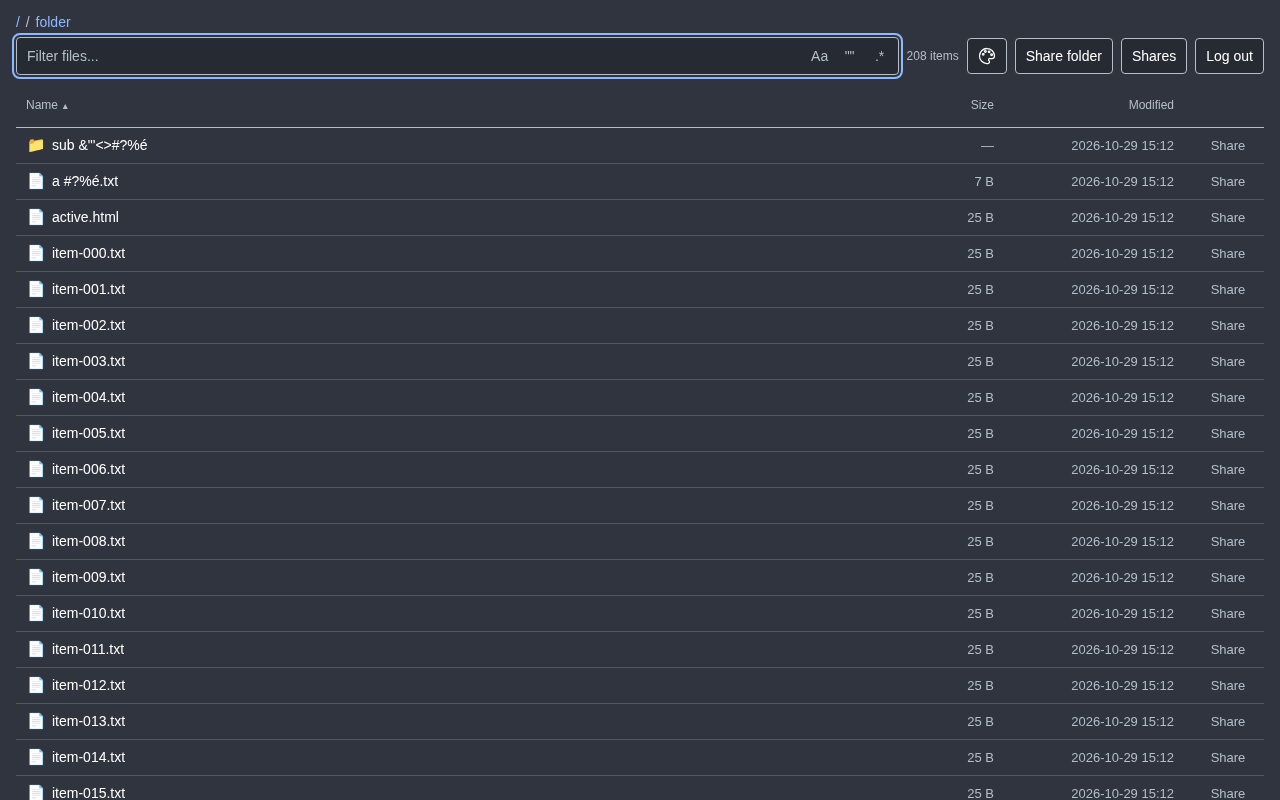
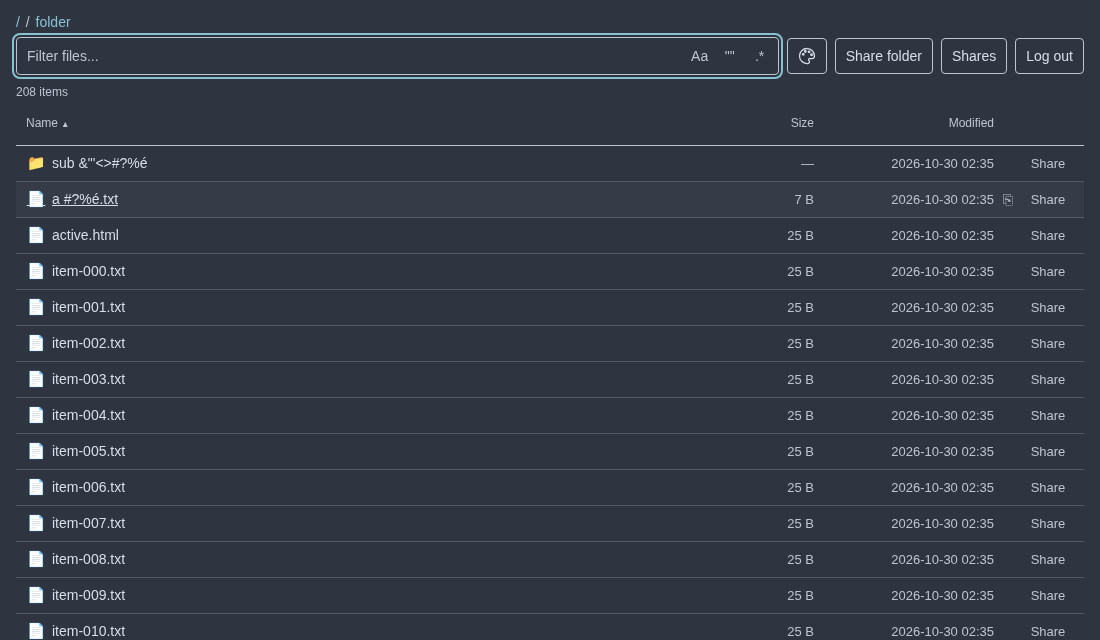
Prepare v1.0.5 release notes and current UI media

diff --git a/RELEASE_NOTES.md b/RELEASE_NOTES.md
@@ -1,5 +1,27 @@
 # Release notes
 
+## v1.0.5
+
+### Changes
+
+- Replace Linux `openat2` confinement with Go `os.Root`. Relative symlinks now work within the applicable folder or file-parent boundary; absolute and escaping links remain rejected. Linux remains the supported runtime.
+- Refine inline filename-filter controls, item counts, empty-state recovery, and touch targets. Keep recipient sharing actions visible and distinguish owner-only copy links.
+- Reduce the theme picker to Light, Nord, Catppuccin Mocha, Rose Pine, and Rose Pine Dawn. Save one theme preference across owner and shared-folder pages on the same host and browser profile.
+- Refresh README screenshots and sharing animation from the current UI with synthetic files.
+- Create version-specific GitHub Releases only after full checks and both GHCR and Docker Hub publication succeed. Share strict version validation between local packaging and publication.
+
+### Upgrade
+
+No database-schema or API-format migration is added. Existing share tokens, expiry times, and revocations remain stored in the same format. Back up the whole stopped state directory and follow the [update and rollback procedure](https://github.com/xmoforf/go-fileshare/blob/v1.0.5/docs/operations.md#update-and-roll-back), then reload the browser.
+
+**Review symlinks before upgrading.** Earlier versions rejected all symlinks; this version follows permitted relative links, including through existing folder shares. Saved paths are live references, not pinned objects. Trusted filesystem writers can retarget a shared folder or ancestor within the configured tree; replacing a shared folder with a relative link to the configured root can expose that entire tree through an existing token. Single-file links remain restricted to their saved basename within the reopened parent. Revoke affected links before changes that should not reach recipients. See [filesystem boundaries](https://github.com/xmoforf/go-fileshare/blob/v1.0.5/SECURITY.md#filesystem-boundaries).
+
+Reselect your theme once: older per-page preferences are not migrated. The system default is now Light for a light OS setting and Nord otherwise. The saved theme cookie contains only appearance preferences, not authorization; see [appearance settings](https://github.com/xmoforf/go-fileshare/blob/v1.0.5/docs/usage.md#change-appearance).
+
+### Known limitations
+
+Filtering covers the current directory only; large listings still consume browser memory despite virtualized rows. Shares track live paths, and revocation stops new requests rather than transfers already underway. No uploads, transcoding, or multi-user permissions are added. Linux packaging does not imply native support for other Unix systems; Windows remains unsupported. HTTPS and public-ingress protections remain operator responsibilities; see [application limits](https://github.com/xmoforf/go-fileshare/blob/v1.0.5/SECURITY.md#application-limits).
+
 ## v1.0.4
 
 ### Changes
